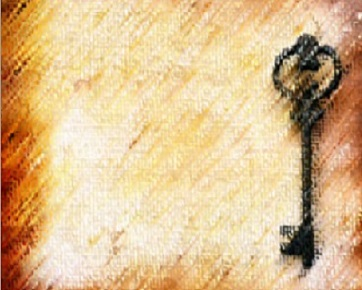
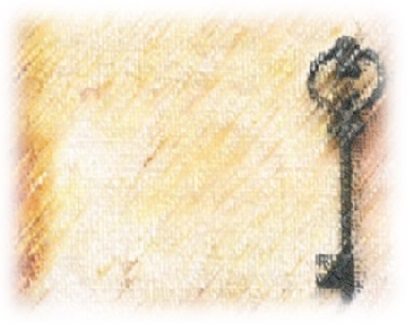
encode com num negativo

diff --git a/cipher.js b/cipher.js
@@ -1,28 +1,40 @@
 
 let cipher = {};
 
-cipher.encode = (mensagem, desloc) => {
-  let fullWord = "";
+cipher.encode = (mensagem, offset) => {
   let stringWord = "";
   let result = "";
-
-  for(let i = 0; i < mensagem.length; i++){
+ 
+  for(let i in mensagem) {
   let messageAsc = mensagem.charCodeAt(i);
         
-      if(parseInt(messageAsc)==32){
-      fullWord = 32; 
+      if(offset <0) {  
+        if(messageAsc > 64 && messageAsc < 91) {
+          messageAsc = 90 + ((((parseInt(messageAsc) - 90) + offset) % 26))
+        }
+        if(messageAsc > 96 && messageAsc < 123){
+          messageAsc = 122 + ((((parseInt(messageAsc) - 122) + offset) % 26))
+      }  
+    }else 
+      
+      if(offset > 0) {
+        if(parseInt(messageAsc)==32){
+          messageAsc = 32; 
       }
-      if(messageAsc > 64 && messageAsc < 91){
-        fullWord = (((parseInt(messageAsc) - 65 + desloc) % 26) + 65)
+        if(messageAsc > 64 && messageAsc < 91){
+          messageAsc = (((parseInt(messageAsc) - 65 + offset) % 26) + 65)
       }
-      if(messageAsc > 96 && messageAsc < 123){
-        fullWord = (((parseInt(messageAsc) - 97 + desloc) % 26) + 97)
+        if(messageAsc > 96 && messageAsc < 123){
+          messageAsc = (((parseInt(messageAsc) - 97 + offset) % 26) + 97)
       }    
-    stringWord = String.fromCharCode(fullWord);       
+    }
+  
+    stringWord = String.fromCharCode(messageAsc);    
     result += stringWord;
   }
 return result;
 }
+
 
 
 let send1 = () => {
@@ -34,27 +46,27 @@ let send1 = () => {
 }
 
 
-cipher.decode = (mensagem, desloc) => {
-  let fullWord = "";
-  let teste = "";
+cipher.decode = (mensagem, offset) => {
   let stringWord = "";
   let result = "";
 
-  for(let i = 0; i < mensagem.length; i++){
+  if(offset < 0){
+    offset = offset*-1;
+  }
+
+  for(let i in mensagem) { 
     let messageAsc = mensagem.charCodeAt(i);
     
       if(parseInt(messageAsc)==32){
-      teste = 32; 
+        messageAsc = 32; 
       }
       if(messageAsc > 64 && messageAsc < 91){
-        fullWord = ((parseInt(messageAsc) - 90 - desloc) % 26) 
-        teste = 90 + fullWord; 
+        messageAsc = 90 + (((parseInt(messageAsc) - 90 - offset) % 26))  
       }
       if(messageAsc > 96 && messageAsc < 123){
-        fullWord = ((parseInt(messageAsc) - 122 - desloc) % 26) //+ 97)
-        teste = 122 + fullWord;
+        messageAsc = 122 + (((parseInt(messageAsc) - 122 - offset) % 26))
       } 
-    stringWord = String.fromCharCode(teste);       
+    stringWord = String.fromCharCode(messageAsc);       
     result += stringWord;
   }
 return result;

diff --git a/index.html b/index.html
@@ -5,6 +5,7 @@
     <meta name="viewport" content="width=device-width">
     <title>CIPHER</title>
     <link href="style.css" rel="stylesheet" type="text/css" />
+    <link href="https://fonts.googleapis.com/css?family=Abel|Cinzel|Dancing+Script|Exo+2|Inconsolata|Major+Mono+Display|Nunito|Nunito+Sans|Pacifico|Quicksand|ZCOOL+KuaiLe" rel="stylesheet"> 
   </head>
 
     <body>
@@ -15,10 +16,11 @@
     </div>
 
     <div id="intro">
-    <h3>Em criptografia, a Cifra de César, também conhecida como cifra de troca, código de César ou troca de César, é uma das mais simples e conhecidas técnicas de criptografia. É um tipo de cifra de substituição na qual cada letra do texto é substituída por outra, que se apresenta no alfabeto abaixo dela um número fixo de vezes. Por exemplo, com uma troca de três posições, A seria substituído por D, B se tornaria E, e assim por diante. O nome do método é em homenagem a Júlio César, que o usou para se comunicar com os seus generais.</h3>
-    <h3>Vamos lá, escolha a mensagem que deseja cifrar/decifrar e seu número de deslocamento.</h3>
+    <h3>Em criptografia, a Cifra de César, é uma das mais simples e conhecidas técnicas de criptografia. É um tipo de cifra de substituição na qual cada letra do texto é substituída por outra, que se apresenta no alfabeto abaixo dela um número fixo de vezes. Por exemplo, com uma troca de três posições, A seria substituído por D, B se tornaria E, e assim por diante. O nome do método é em homenagem a Júlio César, que o usou para se comunicar com os seus generais.</h3>
+    <h3><br />Vamos lá, escolha a mensagem que deseja cifrar/decifrar e seu número de deslocamento.</h3>
     </div>
     
+    <div class="cont">
     <div class="boxCifra1"> 
       <div id="cifrarTitle"><h1>CIFRAR</h1></div>
     <div>
@@ -55,6 +57,7 @@
     </div>
   </P>
     <div id="msgDecifrada"><br />Mensagem decifrada é: <br /></div> 
+      </div>
       </div>
 
     <script src="cipher.js"></script>

diff --git a/style.css b/style.css
@@ -3,12 +3,12 @@ body{
 text-align: center;
 font-family: 'Courier New', Courier, monospace;
 font-size: small;
-background-image: url('Pergaminho2.jpg');    
+background-image: url('folha.jpg');    
 background-repeat: no-repeat;
 background-size: 100%;  
 background-position: 100%; 
 color: rgb(180, 45, 45);
-background-color: rgb(252, 215, 168);
+background-color: rgb(168, 157, 91);
 }
 
 #container{
@@ -17,17 +17,19 @@ margin-top: 4%;
 
 #title{
 text-align: center;
-font-family: unset;
-font-style: inherit;
-color: rgb(160, 49, 15);
+font-family: 'Dancing Script', cursive;
+color: rgb(153, 36, 7);
 font-size: large;
+font-weight: bolder;
 }
 
 #intro{
-font-family: unset;
+font-family: 'Cinzel', serif;
 font-size: small;
 margin-left: 15%;
 margin-right: 15%;
+font-weight: bolder;
+color: rgb(243, 86, 59);
 }
 
 .hide {
@@ -52,28 +54,40 @@ font-weight: bolder;
 font-style: oblique;
 font-size: 20px; 
 color: rgb(155, 24, 20);
-text-shadow: 3px 3px 3px 3px rgb(253, 251, 251);
+text-shadow: 3px 3px 3px rgb(168, 166, 166);
 }
 
 #messageId, #messageIdDecifra{
 margin-bottom: 15px;
+width: 300px;
+border-radius: 15px;
 }
 
-.boxCifra1, .boxCifra2{
-    width: 350px;
+.boxCifra1{
+    width: 386px;
+    padding: 5px;    
+    border-radius: 15px;        
+    background: url("chave.png");
+    }
+
+    .boxCifra2{
+    width: 386px;
     padding: 5px;
-    border: 2px solid rgb(15, 15, 14);
-    margin: 0 auto; 
-    border-radius: 15px;    
-    vertical-align: middle;
-    background: url("Chave.png");
+    border-radius: 15px;        
+    background: url("chave.png");
+    display: inline-block;
+    margin-left: 25px;
     }
 
 #cifrarTitle{
     font-family: fantasy;
-    color: rgb(252, 123, 72);
+    color: rgb(224, 70, 9);
     font-weight: bolder;
-    text-shadow: 3px 3px 3px 3px rgb(155, 24, 20);
     font-size: medium;
 }
 
+.cont{
+    display: inline-flex;
+    text-align: center;
+    margin-top: 35px;
+}

diff --git a/tests.js b/tests.js
@@ -1,26 +1,26 @@
-var result = encode("AB", 2);
-if(encode("AB", 2) == "CD"){
+var result = cipher.encode("AB", 2);
+if(cipher.encode("AB", 2) == "CD"){
 console.log("Correto " + result);
 } else {
     console.log("Errado")
 }
 
-var result = encode("Zz", 2);
-if(encode("Zz", 2) == "Bb"){
+var result = cipher.encode("Zz", 2);
+if(cipher.encode("Zz", 2) == "Bb"){
 console.log("Correto " + result);
 } else {
     console.log("Errado")
 }
 
-var result = decode("AB", 2);
-if(decode("AB", 2) == "YZ"){
+var result = cipher.decode("AB", 2);
+if(cipher.decode("AB", 2) == "YZ"){
 console.log("Correto " + result);
 } else {
     console.log("Errado")
 }
 
-var result = decode("Zz", 2);
-if(decode("Zz", 2) == "Xx"){
+var result = cipher.decode("Zz", 2);
+if(cipher.decode("Zz", 2) == "Xx"){
 console.log("Correto " + result);
 } else {
     console.log("Errado")
